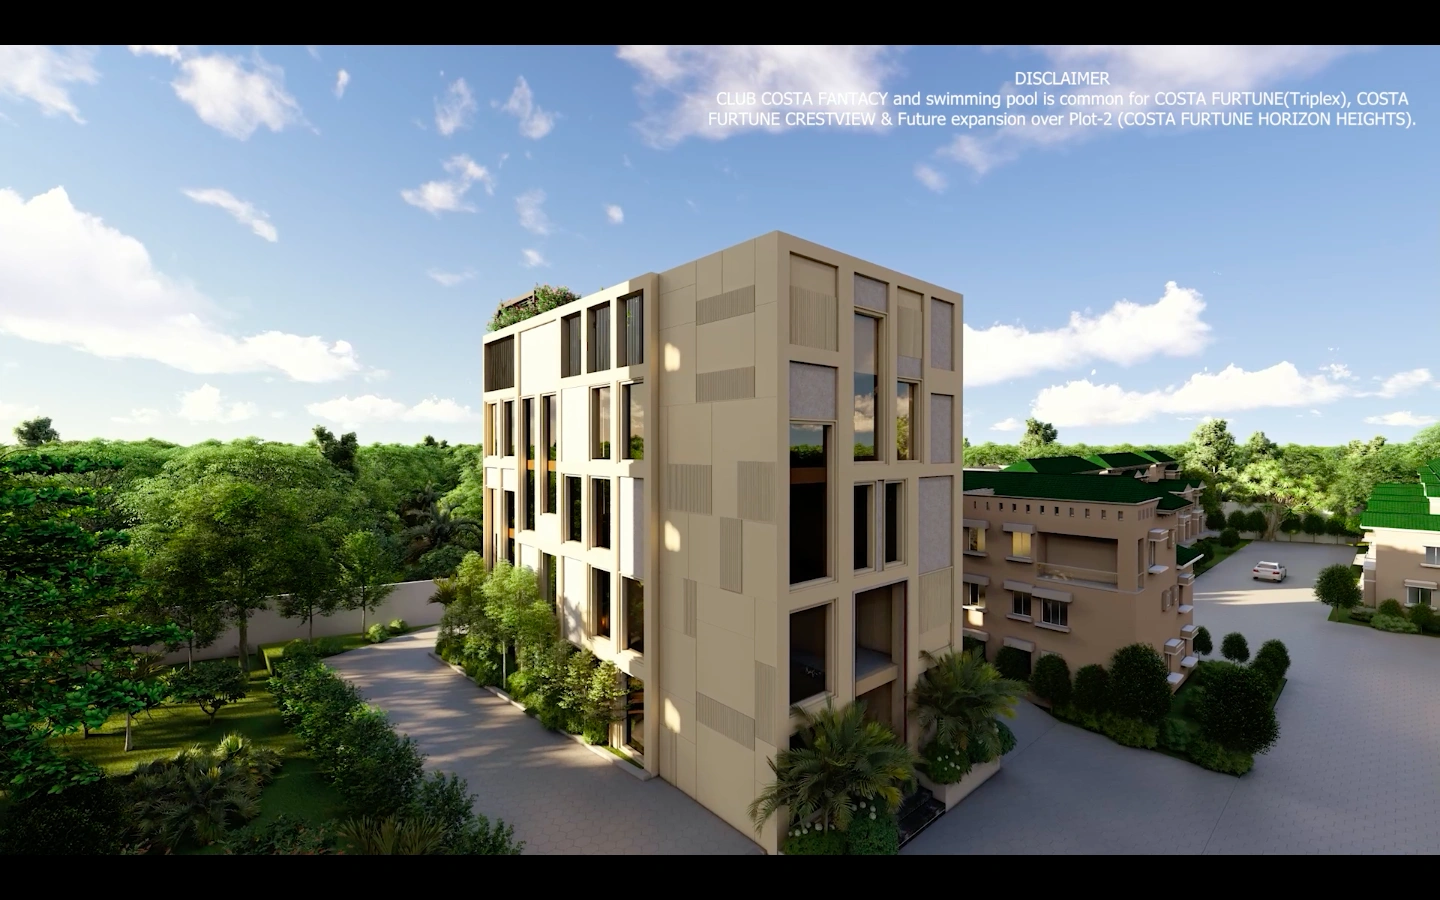
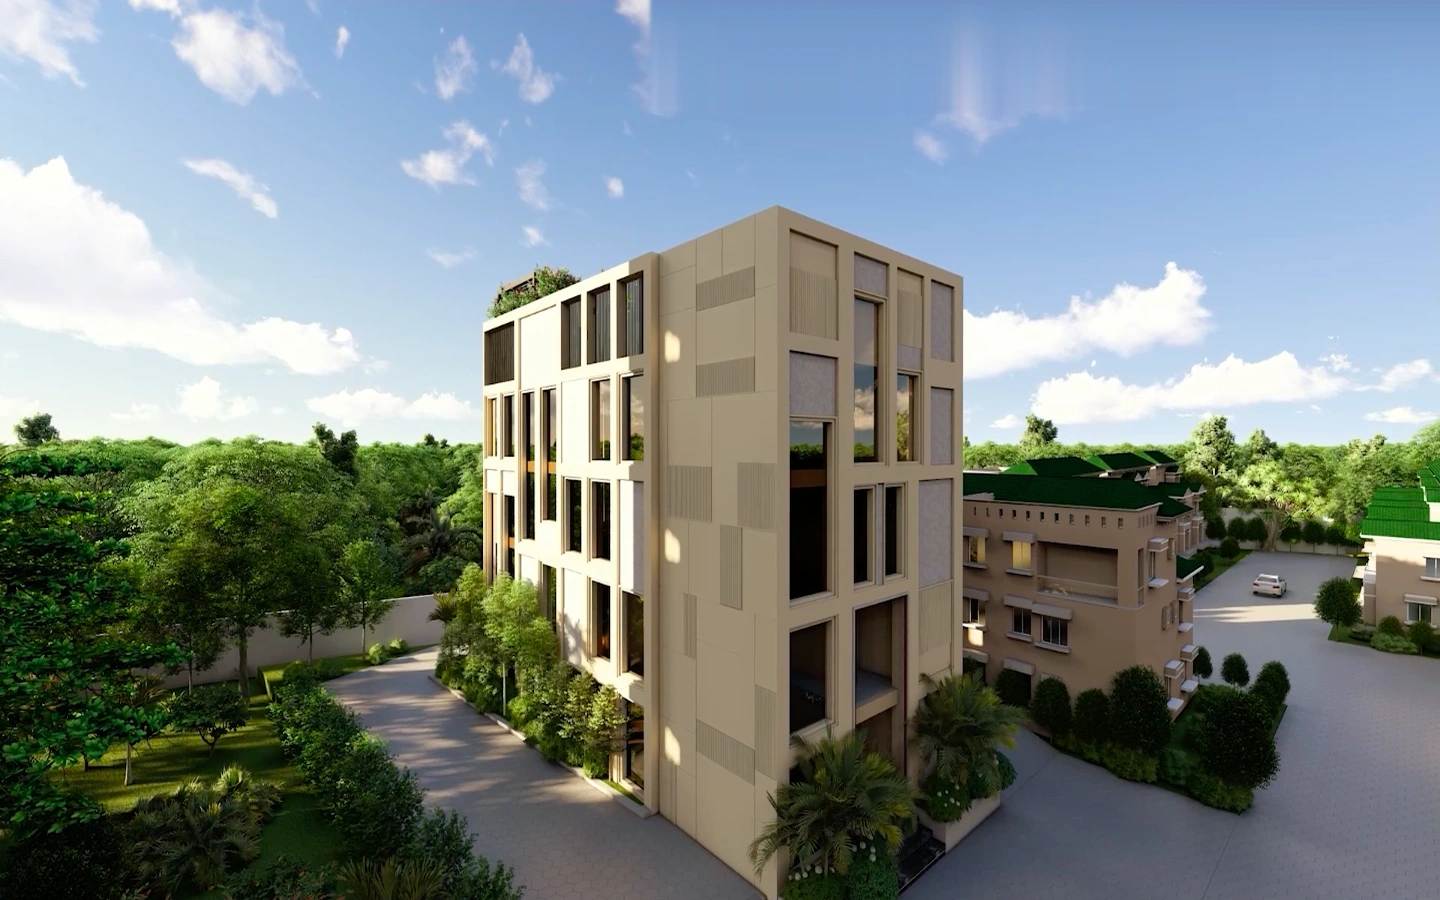
fix(clubhouse): remove outdated disclaimer text and letterboxes from hero render, seamlessly restore pristine sky

diff --git a/clubhouse.html b/clubhouse.html
@@ -92,8 +92,8 @@
 <section class="section section--hero">
   <div class="hero__media">
     <picture>
-      <source media="(max-width:900px), (orientation:portrait)" srcset="assets/phases/club-costa-fantacy-pool.webp">
-      <img src="assets/phases/club-costa-fantacy.webp" alt="Club Costa Fantacy clubhouse exterior at the Costa Furtune township" loading="eager" decoding="async" width="1440" height="900" />
+      <source media="(max-width:900px), (orientation:portrait)" srcset="assets/phases/club-costa-fantacy-pool.webp?v=clean_sky_20261114">
+      <img src="assets/phases/club-costa-fantacy.webp?v=clean_sky_20261114" alt="Club Costa Fantacy clubhouse exterior at the Costa Furtune township" loading="eager" decoding="async" width="1440" height="900" style="object-position:center 20%;" />
     </picture>
     <div class="hero__media__veil"></div>
   </div>
